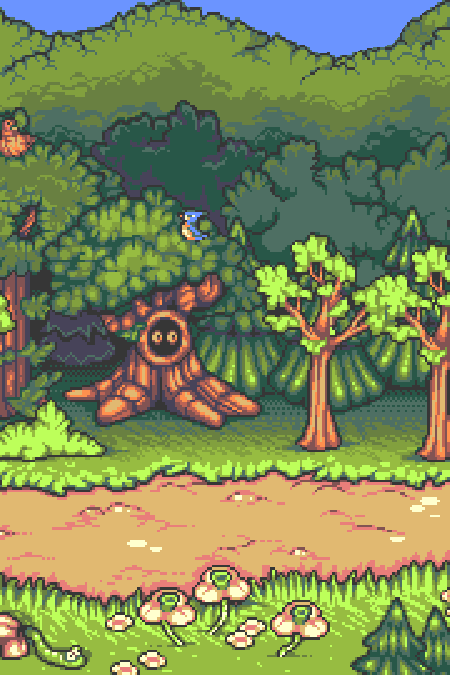
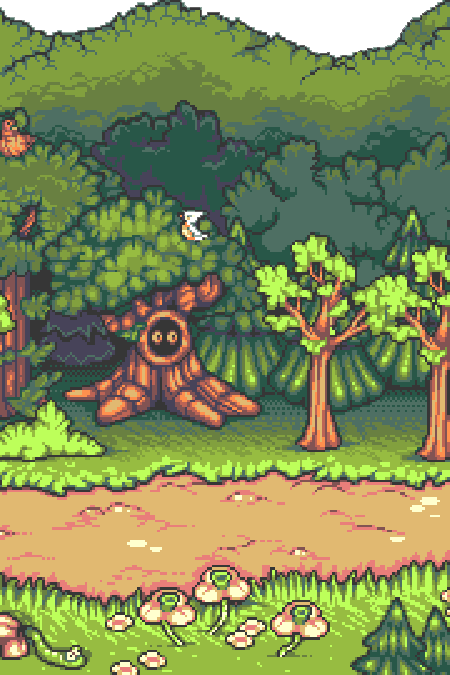
made clouds in the background

Changed region(s): [[0.4044, 0.0, 0.9956, 0.0933], [0.0, 0.0, 0.3422, 0.0622], [0.4044, 0.3111, 0.4667, 0.3733]]

diff --git a/app/assets/javascripts/scenes/HomePage.js b/app/assets/javascripts/scenes/HomePage.js
@@ -7,7 +7,7 @@ Scene.HomePage.prototype = {
     if (SHOWFLAPPYOPTIONS){
       this.addPostFlappyButtons()  
     } else {    
-      this.clouds = this.game.add.tileSprite(0,0, 450,125, 'clouds');
+      this.clouds = this.game.add.tileSprite(0,0, 450,180, 'clouds');
       this.forest = this.game.add.tileSprite(0,125, 450, 675, 'forest');
       this.poops = this.game.add.group()
       this.makeGreenDragon()
